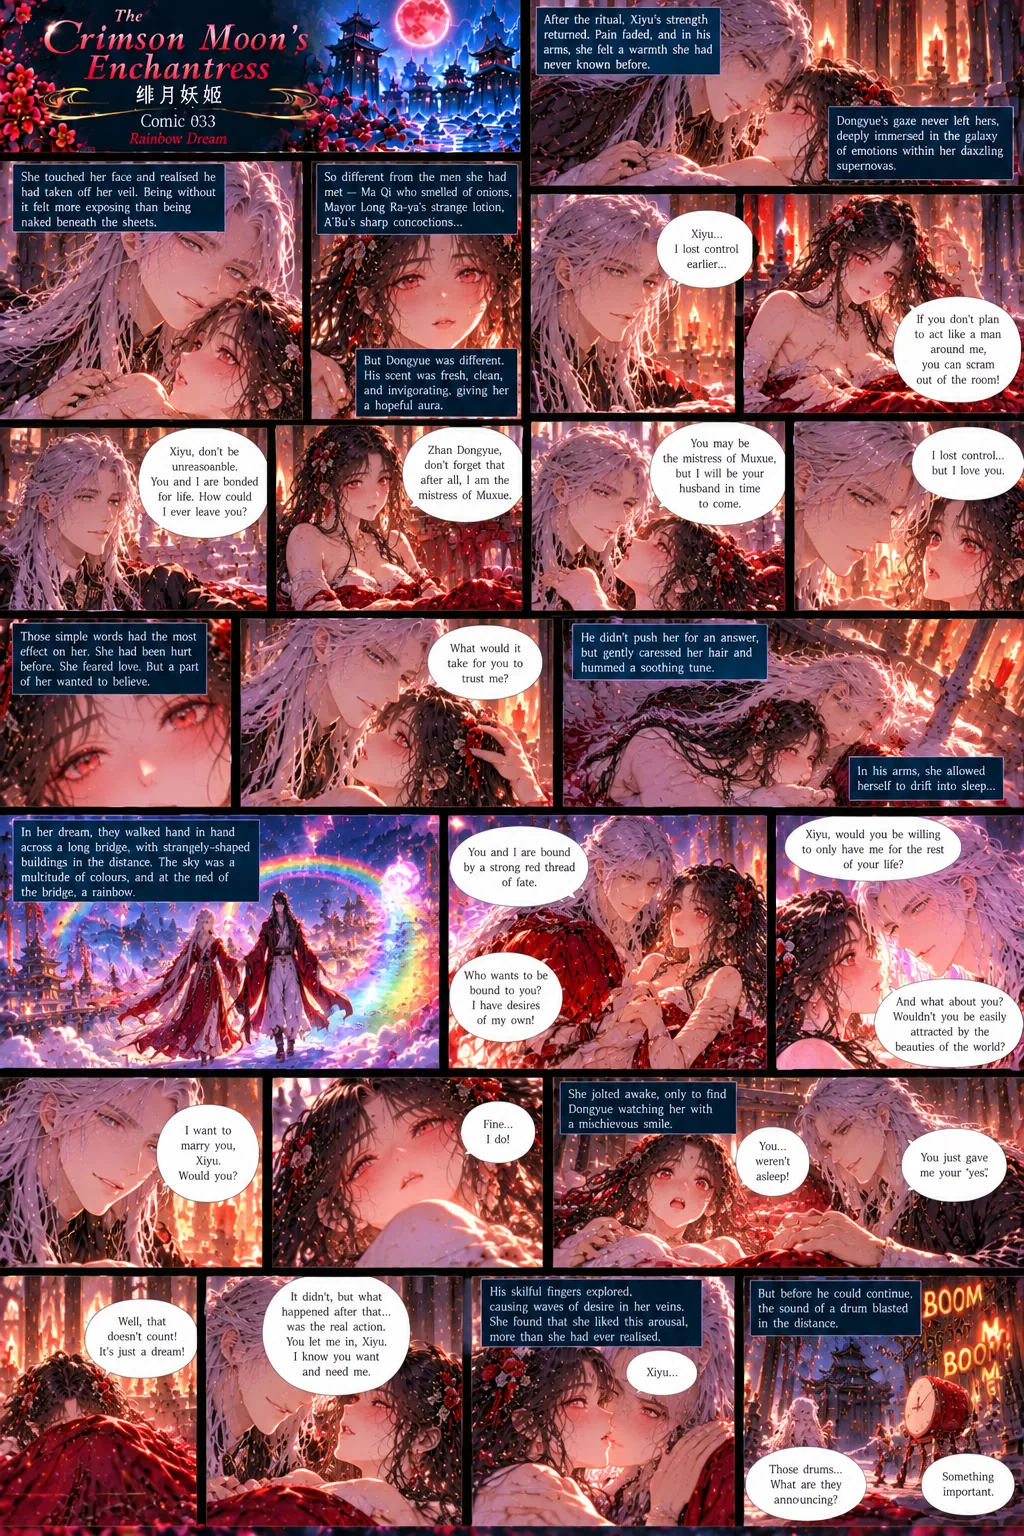
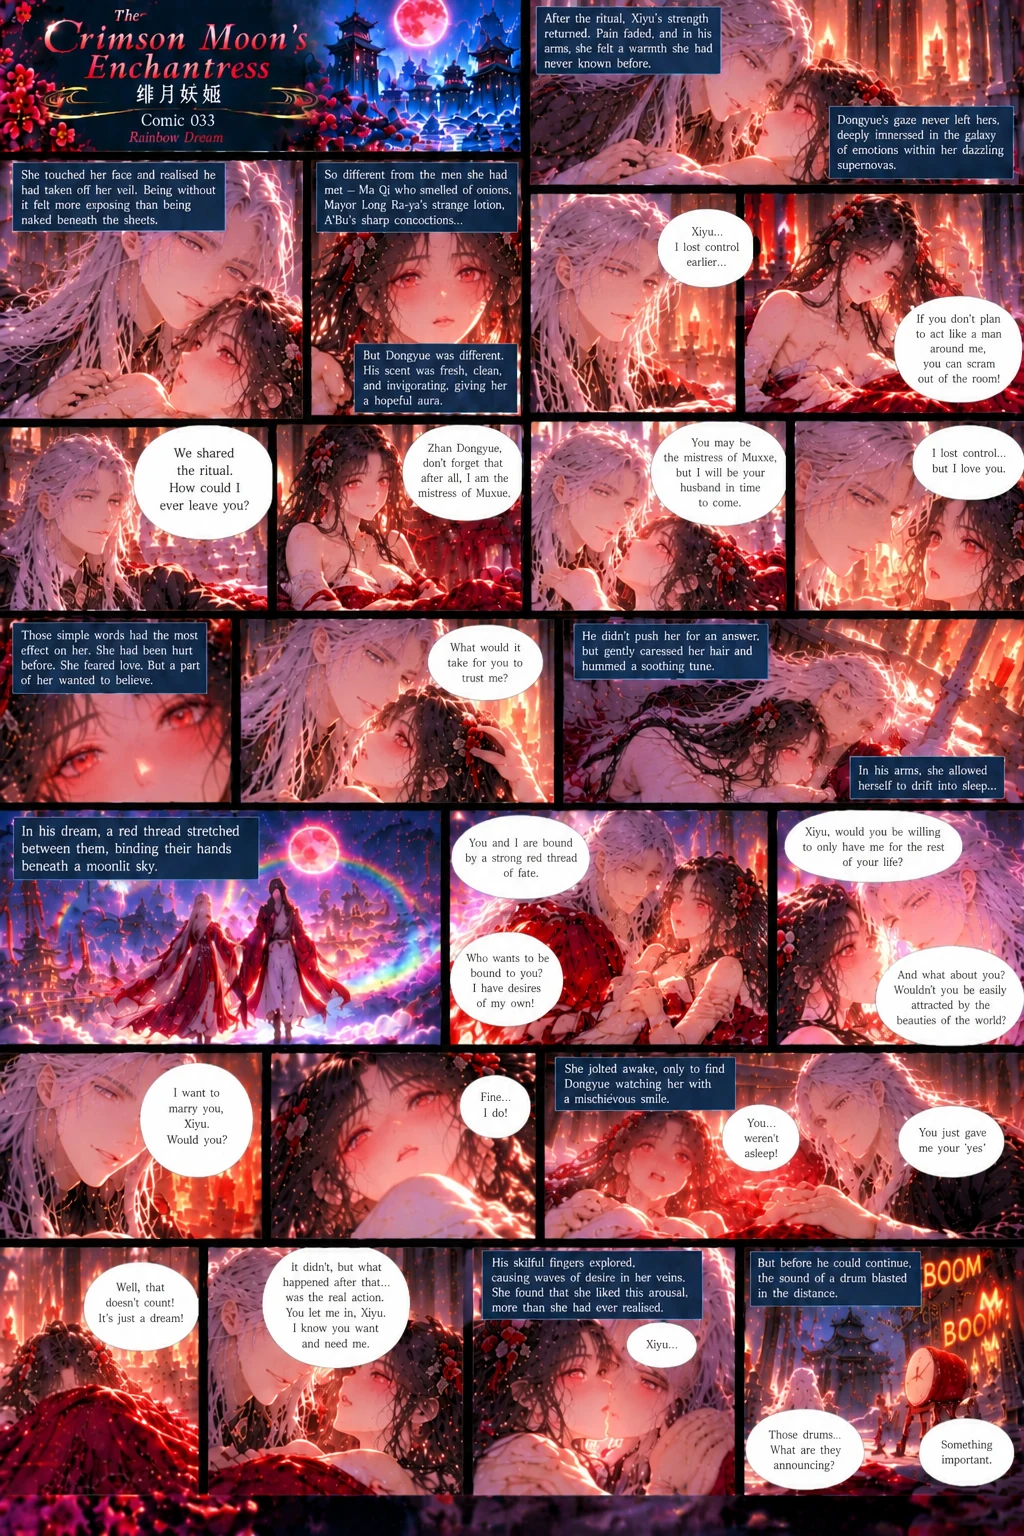
Install the edited comic 033: ritual line and red-thread dream
Claude-Session: https://claude.ai/code/session_01XEYzSJa6dBuS74MycM45Hs

diff --git a/scripts/chapters.js b/scripts/chapters.js
@@ -138,7 +138,7 @@ const CHAPTER_DESIGN = {
   events:['The ritual has saved her.','"I told you that I don\'t need a husband."','She accepts her feelings.'],
   chars:['xiyu','dongyue'], intro:[], unlocks:['Story: the ritual is completed']},
  33:{title:'Rainbow Dream', book:'—', loc:'The Ice Temple',
-  sum:'After the ritual Xiyu\'s strength returns and the pain fades. She realises Dongyue has removed her veil and finds being seen without it more exposing than resting beneath blankets. He feels different from the men she has known: clean, familiar, reassuring. Dongyue admits he lost control earlier; flustered, she tells him to leave if he will not act like a man around her. A rainbow-bridge dream blurs memory, hope and desire; a drum calls her back.',
+  sum:'After the ritual Xiyu\'s strength returns and the pain fades. She realises Dongyue has removed her veil and finds being seen without it more exposing than resting beneath blankets. He feels different from the men she has known: clean, familiar, reassuring. Dongyue admits he lost control earlier; flustered, she tells him to leave if he will not act like a man around her. "We shared the ritual. How could I ever leave you?" In his dream a red thread stretches between them, binding their hands beneath a moonlit sky; he asks her to marry him and she says yes, though she says it does not count because it was only a dream. A drum calls her back.',
   events:['The ritual is behind them.','Without the veil.','The rainbow dream.','A drum sounds.'],
   chars:['xiyu','dongyue'], intro:[], unlocks:['Story: the ritual is behind them']},
  34:{title:'Heinous Intent', book:'—', loc:'The Ice Temple · the Red Assembly Hall',

diff --git a/docs/BOND_SYSTEM.md b/docs/BOND_SYSTEM.md
@@ -35,3 +35,7 @@ Dongyue did not really understand the bond, so he believes they are **bonded for
 
 ## Not built
 The formal deeper rite, any romance or intimacy mechanic for Cangyuan, comics showing their first kiss or encounter, and Xining's relationships. Resonance is capped at 5 until Volume 2's story is known.
+
+
+### Comic 033 edit (author)
+Dongyue's "You and I are bonded for life" is now "We shared the ritual. How could I ever leave you?", and the dream caption is a red thread binding their hands beneath a moonlit sky. The red thread now foreshadows Crimson Thread Resonance (Volume 2). The page still has the "naked beneath the sheets" caption and "skilful fingers explored... desire in her veins"; in-game text stays non-explicit.
